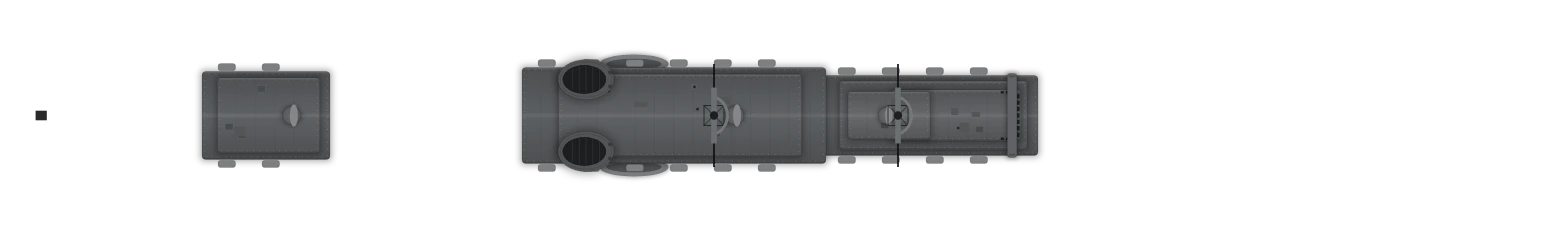
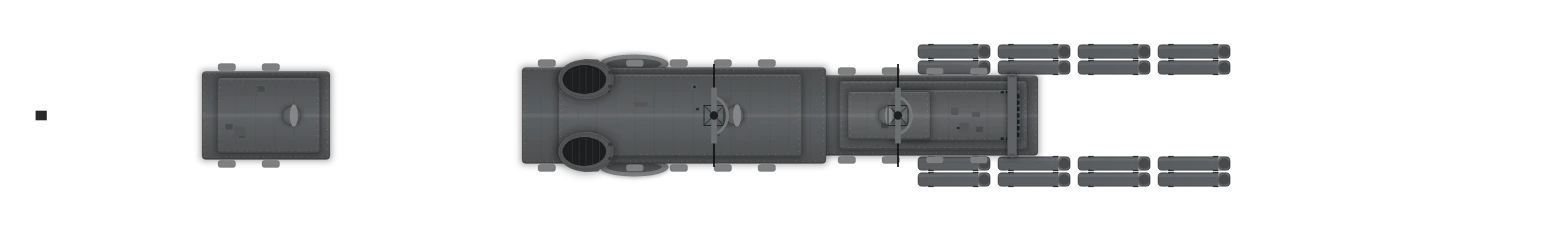
The Slava's P-500 launchers raised (tubes on cradles, rising to the bow, lit and shadowed) and fixed: heavy anti-ship missiles only, never emptied, in the yard and both editors
aux_test, review_test (new check), run_presets pass.

Claude-Session: https://claude.ai/code/session_0112riLGm4nSjrgsGiYL5DUG

Changed region(s): [[0.5861, 0.6667, 0.8021, 0.8182], [0.5861, 0.1818, 0.8021, 0.3333]]

diff --git a/index.html b/index.html
@@ -670,7 +670,7 @@ const DESIGN_LIST = [
     slots: [sl('M', 70, 0, FWD, 'g127a'), sl('V', 56, 0, ALL, 'ssm'), sl('V', -54, 0, ALL, 'sam'), sl('V', 44, 0, ALL, 'sam'), sl('V', -68, 0, ALL, 'ssm'), sl('M', -78, 0, AFT, 'g127a'), sl('A', 38, -5, PORT, 'ciws'), sl('A', -36, 5, STBD, 'ciws'), sl('T', -31, 0, BEAM, 'torh')] },
   { id: 'cg_slava', cls: 'cg', yard: 'neva', dn: 'Gromoboi', model: 'Slava-class cruiser', year: 1982, era: 3, L: 186.4, B: 20.8, t: 9380, kn: 32, td: 880, armor: 25, crew: 476, price: 225000,
     p: { outline: [[93.2, 0.55], [87.13, 3.11], [84.04, 4.19], [73.33, 7.31], [67.03, 8.61], [60.73, 9.59], [56.44, 10.01], [50.26, 10.37], [-65.6, 10.4], [-76.55, 9.81], [-81.54, 9.37], [-88.8, 8.36], [-91.89, 7.8], [-93.2, 7.34]], sup: [[19, 27, 10, 4], [-13, 38, 12, 2], [-64, 16, 11, 2]], fun: [[-24, 3.5, 2.5, -4.5], [-24, 3.5, 2.5, 4.5]], mast: [[15, 'l'], [-8, 'l']], boats: [[-18, 1]], helo: [[-83, 7]] },
-    slots: [sl('M', 63, 0, FWD, 'g130a'), ...pair('V', 37, 7, 'ssmh').map(q => Object.assign(q, { look: 'canister', n: 4, rows: 2, tl: 9 })), Object.assign(sl('V', -42, 0, ALL, 'sam'), { look: 'revolver', nx: 4, ny: 2 }), Object.assign(sl('V', -52, 0, ALL, 'sam'), { look: 'hatch' }), ...pair('A', -55, 7.5, 'ciws'), sl('T', -34, 0, BEAM, 'torh')] },
+    slots: [sl('M', 63, 0, FWD, 'g130a'), ...pair('V', 37, 7, 'ssmh').map(q => Object.assign(q, { look: 'canister', n: 4, rows: 2, tl: 9, fixed: true })), Object.assign(sl('V', -42, 0, ALL, 'sam'), { look: 'revolver', nx: 4, ny: 2 }), Object.assign(sl('V', -52, 0, ALL, 'sam'), { look: 'hatch' }), ...pair('A', -55, 7.5, 'ciws'), sl('T', -34, 0, BEAM, 'torh')] },
   { id: 'cg_kirov', cls: 'cg', name: 'Nuclear Battlecruiser', nuc: true, yard: 'neva', dn: 'Admiral Volkov', model: 'Kirov-class battlecruiser', year: 1980, era: 3, L: 252, B: 28.5, t: 24300, kn: 32, td: 1100, armor: 76, crew: 710, price: 540000,
     p: { outline: [[126.0, 0.75], [125.3, 1.0], [123.18, 2.1], [116.29, 4.89], [109.39, 6.66], [102.07, 8.09], [85.17, 10.41], [75.18, 11.14], [71.09, 11.31], [62.08, 12.2], [41.67, 13.84], [35.34, 14.11], [-62.23, 14.25], [-68.28, 13.99], [-71.52, 13.99], [-77.01, 13.72], [-81.23, 13.31], [-99.53, 12.76], [-104.46, 12.35], [-120.23, 11.87], [-121.35, 11.53], [-124.17, 10.18], [-126.0, 7.99]], bow: .36, run: .2, stern: 't', tw: .55, sup: [[8, 40, 18, 5], [-40, 56, 15, 3], [-74, 12, 12, 2]], fun: [[-10, 4.5, 3.6]], mast: [[6, 'l'], [-30, 'l']], helo: [[-112, 9]], boats: [[-22, 1]] },
     slots: [...[...pair('V', 45, 3.2, 'ssmh'), ...pair('V', 35, 3.2, 'ssmh')].map(q => Object.assign(q, { look: 'grid', nx: 3, ny: 2, c: 2.8 })), Object.assign(sl('V', 80, 0, ALL, 'sam'), { look: 'quad' }), Object.assign(sl('V', 60, 0, ALL, 'sam'), { look: 'revolver', nx: 3, ny: 4, r: 1.1 }), Object.assign(sl('V', -97, 0, ALL, 'sam'), { look: 'quad' }), sl('M', -86, 0, AFT, 'g130a'), ...pair('A', 31, 9, 'ciws'), ...pair('A', -62, 9, 'ciws'), sl('T', -25, 0, BEAM, 'torh')] },
@@ -1215,7 +1215,9 @@ function drawPlan(g, d, P, part = 'all') {
       const lid = (x, y, r) => { g.beginPath(); g.arc(x, y, r, 0, TAU); g.fillStyle = shade(P.deck, -0.36); g.fill(); g.strokeStyle = 'rgba(205,210,210,.28)'; g.lineWidth = 0.12; g.stroke();
         g.beginPath(); g.arc(x, y, r * 0.55, 0, TAU); g.strokeStyle = 'rgba(0,0,0,.35)'; g.lineWidth = 0.1; g.stroke(); };
       if (lk === 'none') { }
-      else if (lk === 'canister') { const n = s.n || 4, rows = s.rows || 2, tl = s.tl || 9, tr = s.tr || 0.85, step = tl + (s.gap || 1.0);
+      else if (lk === 'canister') { const n = s.n || 4, rows = s.rows || 2, tl = s.tl || 9, tr = s.tr || 0.85, step = tl + (s.gap || 1.0), w = n * step, hh = rows * (tr * 2 + 0.3);
+        contact(g, k => rrect(g, s.x - w / 2 - k, s.y - hh / 2 - k, w + 2 * k, hh + 2 * k, 0.4), 0.45); }   // its footing; the tubes are drawn standing, in the raised layer (canisterTop)
+      else if (lk === 'canister' && 0) { const n = s.n || 4, rows = s.rows || 2, tl = s.tl || 9, tr = s.tr || 0.85, step = tl + (s.gap || 1.0);
         for (let i = 0; i < n; i++) for (let r = 0; r < rows; r++) { const cx = s.x + (i - (n - 1) / 2) * step, cy = s.y + (r - (rows - 1) / 2) * (tr * 2 + 0.3);
           contact(g, k => rrect(g, cx - tl / 2 - k, cy - tr - k, tl + 2 * k, tr * 2 + 2 * k, tr + k), 0.35);
           rrect(g, cx - tl / 2, cy - tr, tl, tr * 2, tr); crownFill(g, P.sup, tr, -0.04); g.strokeStyle = 'rgba(0,0,0,.35)'; g.lineWidth = 0.12; g.stroke();
@@ -1615,6 +1617,22 @@ function houseDetail(g, d, P, hx, hlen, hw2) {
   if (!HM.on) { g.save(); g.setLineDash([0.1, 0.8]); g.strokeStyle = 'rgba(225,225,215,.3)'; g.lineWidth = 0.09;
     for (const [sa, sb] of spans) for (const sy of [-1, 1]) { g.beginPath(); g.moveTo(sa + 1, sy * hw * 0.64); g.lineTo(sb - 1, sy * hw * 0.64); g.stroke(); } g.restore(); }
 }
+// A canister launcher (the Slava's P-500s; the owner, 14 Nov 2026): long tubes in rows on cradles, raised toward the bow as
+// they were (about 10 degrees), drawn in the raised layer so the height map gives them light, shade and a shadow on deck.
+function canisterTop(g, P, s) {
+  const n = s.n || 4, rows = s.rows || 2, tl = s.tl || 9, tr = s.tr || 0.85, step = tl + (s.gap || 1.0), S = P.sup, h0 = 1.6, h1 = 3.4, segs = 6;
+  for (let i = 0; i < n; i++) for (let r = 0; r < rows; r++) {
+    const cx = s.x + (i - (n - 1) / 2) * step, cy = s.y + (r - (rows - 1) / 2) * (tr * 2 + 0.3);
+    for (const f of [-0.32, 0.3]) { g.beginPath(); g.rect(cx + f * tl - 0.35, cy - tr * 1.12, 0.7, tr * 2.24); pfill(g, shade(S, -0.32), h0 + (h1 - h0) * (f + 0.5) - 0.3); }   // the cradles
+    for (let k = 0; k < segs; k++) {   // the tube, in steps so its height climbs toward the bow
+      const xa = cx - tl / 2 + k * tl / segs, hk = h0 + (h1 - h0) * (k + 0.5) / segs;
+      g.beginPath(); rrect(g, xa, cy - tr, tl / segs + 0.02, tr * 2, k === 0 || k === segs - 1 ? tr * 0.6 : 0); pfill(g, shade(S, -0.02 + 0.04 * (k / segs)), hk);
+      if (!HM.on) { g.fillStyle = 'rgba(255,255,255,.07)'; g.fillRect(xa, cy - tr * 0.75, tl / segs + 0.02, tr * 0.35); }   // the light along the crown
+    }
+    g.beginPath(); g.arc(cx + tl / 2 - tr * 0.85, cy, tr * 0.78, 0, TAU); pfill(g, shade(S, -0.24), h1 + 0.1);   // the forward cap
+    if (!HM.on) { g.strokeStyle = 'rgba(0,0,0,.4)'; g.lineWidth = 0.12; rrect(g, cx - tl / 2, cy - tr, tl, tr * 2, tr * 0.6); g.stroke(); }
+  }
+}
 function drawPlanTop(g, d, P) {
   const p = d.p || {}, L = d.L, B = d.B, h = L / 2, b = B / 2, ink = 'rgba(14,18,20,.85)', st = supSchool(d), S = P.sup;
   // boats in their crutches, cranes and catapults
@@ -1635,6 +1653,7 @@ function drawPlanTop(g, d, P) {
   // the long deckhouse (01 level) that the bridge, funnels and after control stand on
   for (const [x, len, w] of p.house || []) { level(g, P, x - len / 2, x + len / 2, w / 2, DECK_H * 0.8, { front: 'taper', rear: 'round' }); houseDetail(g, d, P, x, len, w); }
   for (const [x, y, r, hh] of p.tubs || []) tub(g, P, x, y, r, hh || 1.4);
+  for (const sl of d.slots) if (sl.s === 'V' && sl.look === 'canister') canisterTop(g, P, sl);
   // (a design's `boxes`, containers on deck, are not painted here: the game draws each stack itself, so they can slide off in a list)
   if (p.stealth) { stealthTop(g, d, P); return; }
   // superstructure blocks

diff --git a/src/game.html b/src/game.html
@@ -667,7 +667,7 @@ const DESIGN_LIST = [
     slots: [sl('M', 70, 0, FWD, 'g127a'), sl('V', 56, 0, ALL, 'ssm'), sl('V', -54, 0, ALL, 'sam'), sl('V', 44, 0, ALL, 'sam'), sl('V', -68, 0, ALL, 'ssm'), sl('M', -78, 0, AFT, 'g127a'), sl('A', 38, -5, PORT, 'ciws'), sl('A', -36, 5, STBD, 'ciws'), sl('T', -31, 0, BEAM, 'torh')] },
   { id: 'cg_slava', cls: 'cg', yard: 'neva', dn: 'Gromoboi', model: 'Slava-class cruiser', year: 1982, era: 3, L: 186.4, B: 20.8, t: 9380, kn: 32, td: 880, armor: 25, crew: 476, price: 225000,
     p: { outline: [[93.2, 0.55], [87.13, 3.11], [84.04, 4.19], [73.33, 7.31], [67.03, 8.61], [60.73, 9.59], [56.44, 10.01], [50.26, 10.37], [-65.6, 10.4], [-76.55, 9.81], [-81.54, 9.37], [-88.8, 8.36], [-91.89, 7.8], [-93.2, 7.34]], sup: [[19, 27, 10, 4], [-13, 38, 12, 2], [-64, 16, 11, 2]], fun: [[-24, 3.5, 2.5, -4.5], [-24, 3.5, 2.5, 4.5]], mast: [[15, 'l'], [-8, 'l']], boats: [[-18, 1]], helo: [[-83, 7]] },
-    slots: [sl('M', 63, 0, FWD, 'g130a'), ...pair('V', 37, 7, 'ssmh').map(q => Object.assign(q, { look: 'canister', n: 4, rows: 2, tl: 9 })), Object.assign(sl('V', -42, 0, ALL, 'sam'), { look: 'revolver', nx: 4, ny: 2 }), Object.assign(sl('V', -52, 0, ALL, 'sam'), { look: 'hatch' }), ...pair('A', -55, 7.5, 'ciws'), sl('T', -34, 0, BEAM, 'torh')] },
+    slots: [sl('M', 63, 0, FWD, 'g130a'), ...pair('V', 37, 7, 'ssmh').map(q => Object.assign(q, { look: 'canister', n: 4, rows: 2, tl: 9, fixed: true })), Object.assign(sl('V', -42, 0, ALL, 'sam'), { look: 'revolver', nx: 4, ny: 2 }), Object.assign(sl('V', -52, 0, ALL, 'sam'), { look: 'hatch' }), ...pair('A', -55, 7.5, 'ciws'), sl('T', -34, 0, BEAM, 'torh')] },
   { id: 'cg_kirov', cls: 'cg', name: 'Nuclear Battlecruiser', nuc: true, yard: 'neva', dn: 'Admiral Volkov', model: 'Kirov-class battlecruiser', year: 1980, era: 3, L: 252, B: 28.5, t: 24300, kn: 32, td: 1100, armor: 76, crew: 710, price: 540000,
     p: { outline: [[126.0, 0.75], [125.3, 1.0], [123.18, 2.1], [116.29, 4.89], [109.39, 6.66], [102.07, 8.09], [85.17, 10.41], [75.18, 11.14], [71.09, 11.31], [62.08, 12.2], [41.67, 13.84], [35.34, 14.11], [-62.23, 14.25], [-68.28, 13.99], [-71.52, 13.99], [-77.01, 13.72], [-81.23, 13.31], [-99.53, 12.76], [-104.46, 12.35], [-120.23, 11.87], [-121.35, 11.53], [-124.17, 10.18], [-126.0, 7.99]], bow: .36, run: .2, stern: 't', tw: .55, sup: [[8, 40, 18, 5], [-40, 56, 15, 3], [-74, 12, 12, 2]], fun: [[-10, 4.5, 3.6]], mast: [[6, 'l'], [-30, 'l']], helo: [[-112, 9]], boats: [[-22, 1]] },
     slots: [...[...pair('V', 45, 3.2, 'ssmh'), ...pair('V', 35, 3.2, 'ssmh')].map(q => Object.assign(q, { look: 'grid', nx: 3, ny: 2, c: 2.8 })), Object.assign(sl('V', 80, 0, ALL, 'sam'), { look: 'quad' }), Object.assign(sl('V', 60, 0, ALL, 'sam'), { look: 'revolver', nx: 3, ny: 4, r: 1.1 }), Object.assign(sl('V', -97, 0, ALL, 'sam'), { look: 'quad' }), sl('M', -86, 0, AFT, 'g130a'), ...pair('A', 31, 9, 'ciws'), ...pair('A', -62, 9, 'ciws'), sl('T', -25, 0, BEAM, 'torh')] },
@@ -1212,7 +1212,9 @@ function drawPlan(g, d, P, part = 'all') {
       const lid = (x, y, r) => { g.beginPath(); g.arc(x, y, r, 0, TAU); g.fillStyle = shade(P.deck, -0.36); g.fill(); g.strokeStyle = 'rgba(205,210,210,.28)'; g.lineWidth = 0.12; g.stroke();
         g.beginPath(); g.arc(x, y, r * 0.55, 0, TAU); g.strokeStyle = 'rgba(0,0,0,.35)'; g.lineWidth = 0.1; g.stroke(); };
       if (lk === 'none') { }
-      else if (lk === 'canister') { const n = s.n || 4, rows = s.rows || 2, tl = s.tl || 9, tr = s.tr || 0.85, step = tl + (s.gap || 1.0);
+      else if (lk === 'canister') { const n = s.n || 4, rows = s.rows || 2, tl = s.tl || 9, tr = s.tr || 0.85, step = tl + (s.gap || 1.0), w = n * step, hh = rows * (tr * 2 + 0.3);
+        contact(g, k => rrect(g, s.x - w / 2 - k, s.y - hh / 2 - k, w + 2 * k, hh + 2 * k, 0.4), 0.45); }   // its footing; the tubes are drawn standing, in the raised layer (canisterTop)
+      else if (lk === 'canister' && 0) { const n = s.n || 4, rows = s.rows || 2, tl = s.tl || 9, tr = s.tr || 0.85, step = tl + (s.gap || 1.0);
         for (let i = 0; i < n; i++) for (let r = 0; r < rows; r++) { const cx = s.x + (i - (n - 1) / 2) * step, cy = s.y + (r - (rows - 1) / 2) * (tr * 2 + 0.3);
           contact(g, k => rrect(g, cx - tl / 2 - k, cy - tr - k, tl + 2 * k, tr * 2 + 2 * k, tr + k), 0.35);
           rrect(g, cx - tl / 2, cy - tr, tl, tr * 2, tr); crownFill(g, P.sup, tr, -0.04); g.strokeStyle = 'rgba(0,0,0,.35)'; g.lineWidth = 0.12; g.stroke();
@@ -1612,6 +1614,22 @@ function houseDetail(g, d, P, hx, hlen, hw2) {
   if (!HM.on) { g.save(); g.setLineDash([0.1, 0.8]); g.strokeStyle = 'rgba(225,225,215,.3)'; g.lineWidth = 0.09;
     for (const [sa, sb] of spans) for (const sy of [-1, 1]) { g.beginPath(); g.moveTo(sa + 1, sy * hw * 0.64); g.lineTo(sb - 1, sy * hw * 0.64); g.stroke(); } g.restore(); }
 }
+// A canister launcher (the Slava's P-500s; the owner, 14 Nov 2026): long tubes in rows on cradles, raised toward the bow as
+// they were (about 10 degrees), drawn in the raised layer so the height map gives them light, shade and a shadow on deck.
+function canisterTop(g, P, s) {
+  const n = s.n || 4, rows = s.rows || 2, tl = s.tl || 9, tr = s.tr || 0.85, step = tl + (s.gap || 1.0), S = P.sup, h0 = 1.6, h1 = 3.4, segs = 6;
+  for (let i = 0; i < n; i++) for (let r = 0; r < rows; r++) {
+    const cx = s.x + (i - (n - 1) / 2) * step, cy = s.y + (r - (rows - 1) / 2) * (tr * 2 + 0.3);
+    for (const f of [-0.32, 0.3]) { g.beginPath(); g.rect(cx + f * tl - 0.35, cy - tr * 1.12, 0.7, tr * 2.24); pfill(g, shade(S, -0.32), h0 + (h1 - h0) * (f + 0.5) - 0.3); }   // the cradles
+    for (let k = 0; k < segs; k++) {   // the tube, in steps so its height climbs toward the bow
+      const xa = cx - tl / 2 + k * tl / segs, hk = h0 + (h1 - h0) * (k + 0.5) / segs;
+      g.beginPath(); rrect(g, xa, cy - tr, tl / segs + 0.02, tr * 2, k === 0 || k === segs - 1 ? tr * 0.6 : 0); pfill(g, shade(S, -0.02 + 0.04 * (k / segs)), hk);
+      if (!HM.on) { g.fillStyle = 'rgba(255,255,255,.07)'; g.fillRect(xa, cy - tr * 0.75, tl / segs + 0.02, tr * 0.35); }   // the light along the crown
+    }
+    g.beginPath(); g.arc(cx + tl / 2 - tr * 0.85, cy, tr * 0.78, 0, TAU); pfill(g, shade(S, -0.24), h1 + 0.1);   // the forward cap
+    if (!HM.on) { g.strokeStyle = 'rgba(0,0,0,.4)'; g.lineWidth = 0.12; rrect(g, cx - tl / 2, cy - tr, tl, tr * 2, tr * 0.6); g.stroke(); }
+  }
+}
 function drawPlanTop(g, d, P) {
   const p = d.p || {}, L = d.L, B = d.B, h = L / 2, b = B / 2, ink = 'rgba(14,18,20,.85)', st = supSchool(d), S = P.sup;
   // boats in their crutches, cranes and catapults
@@ -1632,6 +1650,7 @@ function drawPlanTop(g, d, P) {
   // the long deckhouse (01 level) that the bridge, funnels and after control stand on
   for (const [x, len, w] of p.house || []) { level(g, P, x - len / 2, x + len / 2, w / 2, DECK_H * 0.8, { front: 'taper', rear: 'round' }); houseDetail(g, d, P, x, len, w); }
   for (const [x, y, r, hh] of p.tubs || []) tub(g, P, x, y, r, hh || 1.4);
+  for (const sl of d.slots) if (sl.s === 'V' && sl.look === 'canister') canisterTop(g, P, sl);
   // (a design's `boxes`, containers on deck, are not painted here: the game draws each stack itself, so they can slide off in a list)
   if (p.stealth) { stealthTop(g, d, P); return; }
   // superstructure blocks

diff --git a/docs/AGENT_NOTES.md b/docs/AGENT_NOTES.md
@@ -95,3 +95,4 @@
 - **Plans, third round** (14 Nov 2026, the owner's plans): the Nelson (Andrew Arthur's plan: turrets at 43, 22 and 0 m, the tower bridge abaft X, funnel at -48 m, tripod mainmast at -70 m), the Kirov (a plan of Pyotr Velikiy; the hull outline kept from the earlier 3D render, the clean one), the Zumwalt (traced wedge hull, gun houses at 55 and 31 m) and the Littorio (ONI 202, February 1943: turrets at 54, 33 and -59 m, wing 6-inch triples at 24 and -48 m, funnels at -3 and -17 m) laid out after their plans. The Typhoon's screw ducts are joined to her hull. Submarine diving planes are capped at 3.4 m of span: `tools/bake_assets.js` leaves 4 m round a hull (`wide + pad`, pad 8 in all), and wider fins were cut off at the sprite's edge.
 - **Missile launchers drawn as they looked** (the owner, 14 Nov 2026): a V slot may carry `look` (`src/game.html`, the slot drawing): `canister` (rows of long tubes, `n`, `rows`, `tl`, `tr`), `revolver` (round lids, `nx`, `ny`, `r`), `grid` (a block of square lids, `nx`, `ny`, `c`), `pvls` (cell modules in a strip along the deck edge, `len`, `n`, `wd`, `ang` toward the bow), `quad`, `hatch`, or `none`. Without one, Era III and IV keep the square cell block and older ships their twin-arm or box launchers. Looks only. Given so far to the Slava (P-500 canisters, S-300 revolver), the Kirov (Granit grid, S-300 revolver, Kinzhal quads) and the Zumwalt (edge modules).
 - **Admiral Hipper and Scharnhorst** (14 Nov 2026, from the owner's ONI 204 plates of July 1942): traced hulls (the Hipper's fitted under her sponsons), turrets, tower bridges, funnels, catapults, cranes, secondaries and light AA placed after the plates. The Agano's plate (400 px) is too small to trace: she is unchanged until a larger plan comes.
+- **Fixed launchers** (the owner, 14 Nov 2026): a slot with `fixed: true` takes only the weapon it was built with and cannot be emptied (`BattleSim.room_for`; the yard, the quick-battle editor and the battle editor offer no "(empty)" for it). The Slava's two P-500 slots are fixed heavy anti-ship missiles. A `canister` launcher's tubes are drawn in the raised layer (`canisterTop`), standing on cradles and rising toward the bow, so they are lit and cast shadows. review_test checks the fixed slots.
